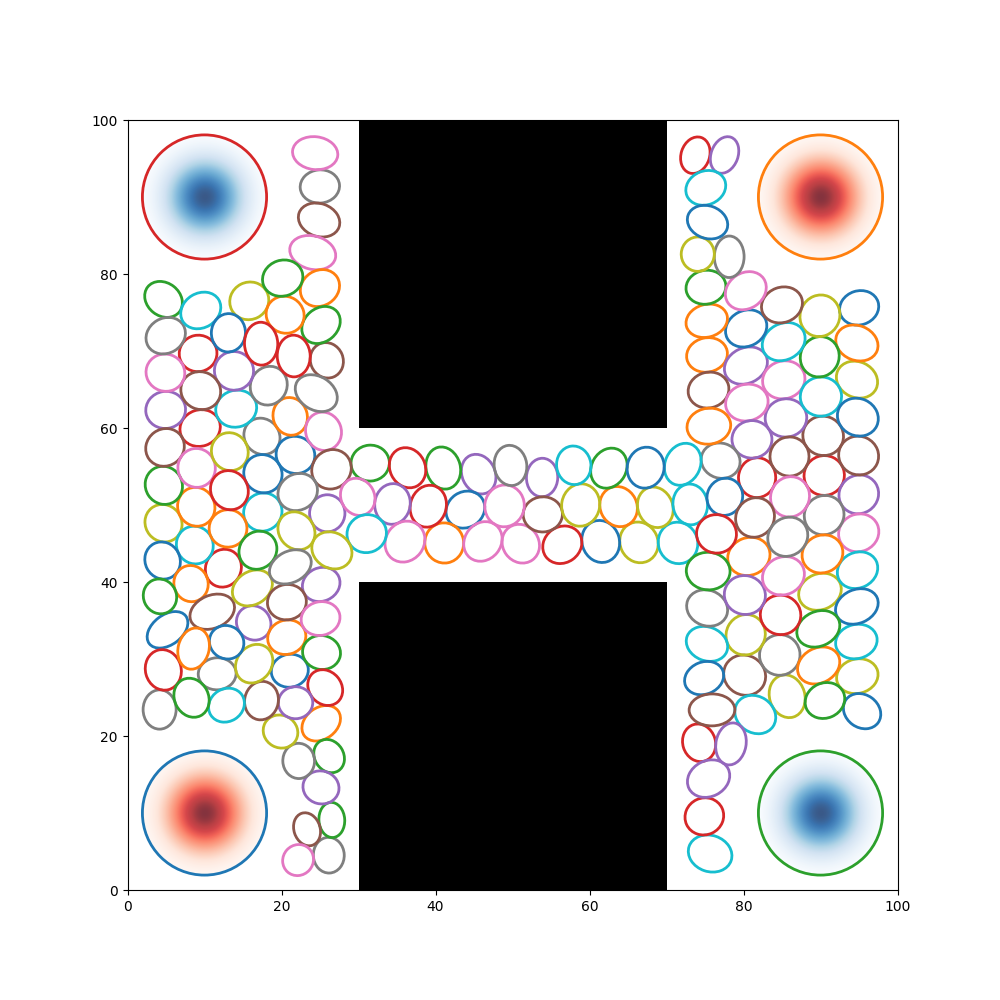
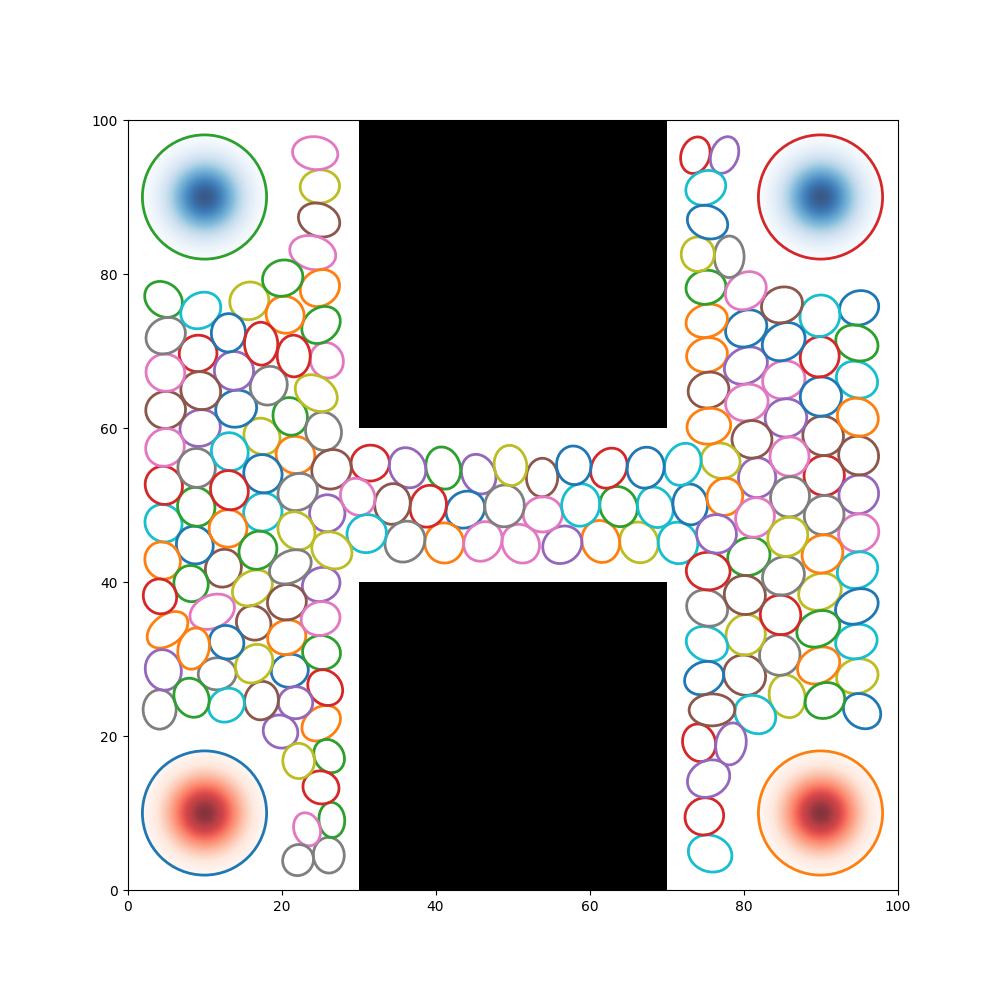
corrected multi-swarm implementation

diff --git a/src/swarm_prm/solvers/macro/teg/teg.py b/src/swarm_prm/solvers/macro/teg/teg.py
@@ -22,7 +22,7 @@ class TEG:
                  num_agents, starts_agent_count, goals_agent_count, 
                  flow_dicts=[], 
                  capacity_dicts = [],
-                 timestep=0,
+                 max_timestep=0,
                  time_limit=100) -> None:
 
         # Problem instance
@@ -35,7 +35,7 @@ class TEG:
         # Flow constraints
         self.flow_dicts = flow_dicts # existing flow on graph
         self.capacity_dicts = capacity_dicts
-        self.timestep = timestep   # current solution time
+        self.max_timestep = max_timestep   # current solution time
 
         # Search Constraints
         self.time_limit = time_limit 
@@ -119,13 +119,13 @@ class TEG:
                     if (u != v):
                         edge_exists = False
                         for flow_dict in self.flow_dicts:
-                            if (u, t+1) in flow_dict[(v, t)]: # type: ignore
+                            if (v, t) in flow_dict and (u, t+1) in flow_dict[(v, t)]:
                                 # print("edge_exist!") # TESTT
                                 edge_exists = True
                                 break
                         if not edge_exists:
                             teg[(u, t, OUT_NODE)][(v, t+1, IN_NODE)] = float("inf")
-                    else:
+                    else: # wait edges
                         teg[(u, t, OUT_NODE)][(v, t+1, IN_NODE)] = float("inf")
 
         return super_source, super_sink, teg 
@@ -188,7 +188,7 @@ class TEG:
             Find earliest timestep such that the graph reaches target flow
         """
         # start from minimum path lengh between start and goal
-        timestep = self.get_min_timestep()
+        timestep = max(self.get_min_timestep(), self.max_timestep)
         max_flow = 0
 
         super_source, super_sink, teg = self.build_teg(timestep)

diff --git a/src/swarm_prm/solvers/macro/teg_node_constraint/teg.py b/src/swarm_prm/solvers/macro/teg_node_constraint/teg.py
@@ -22,7 +22,7 @@ class TEG_Node_Constraint:
                  num_agents, starts_agent_count, goals_agent_count, 
                  flow_dicts=[], 
                  capacity_dicts = [],
-                 timestep=0,
+                 max_timestep=0,
                  time_limit=100) -> None:
 
         # Problem instance
@@ -35,7 +35,7 @@ class TEG_Node_Constraint:
         # Flow constraints
         self.flow_dicts = flow_dicts # existing flow on graph
         self.capacity_dicts = capacity_dicts
-        self.timestep = timestep   # current solution time
+        self.max_timestep = max_timestep   # current solution time
 
         # Search Constraints
         self.time_limit = time_limit 
@@ -111,7 +111,9 @@ class TEG_Node_Constraint:
                 # Edge for capacity constraints. We have capacities occupied by previous agents. Capacity Constraint
                 teg[(u, t+1, IN_NODE)][(u, t+1, OUT_NODE)] = self.node_capacity[u]  
                 for capacity_dict in self.capacity_dicts:
-                    teg[(u, t+1, IN_NODE)][(u, t+1, OUT_NODE)] -= capacity_dict[u, t+1]
+                    if (u, t+1) in capacity_dict:
+                        teg[(u, t+1, IN_NODE)][(u, t+1, OUT_NODE)] = 0
+                        break
 
                 # Edge between states
                 for v in self.roadmap_graph[u]:
@@ -188,7 +190,7 @@ class TEG_Node_Constraint:
             Find earliest timestep such that the graph reaches target flow
         """
         # start from minimum path lengh between start and goal
-        timestep = self.get_min_timestep()
+        timestep = max(self.get_min_timestep(), self.max_timestep)
         max_flow = 0
 
         super_source, super_sink, teg = self.build_teg(timestep)

diff --git a/scripts/map_generation.py b/scripts/map_generation.py
@@ -41,7 +41,7 @@ maps = {
                                 Obstacle(None, "POLYGON", [(30, 100), (30, 60), (70, 60), (70, 100)])
                             ], 
                 "starts" : np.array([[10, 10], [90, 10]]), 
-                "goals" : np.array([[90, 90], [10, 90]])             
+                "goals" : np.array([[10, 90], [90, 90]])
                 },
         "obstacle":{
                 "roadmap" : Roadmap(200, 160), 

diff --git a/src/swarm_prm/solvers/macro/teg/README.md b/src/swarm_prm/solvers/macro/teg/README.md
@@ -1,4 +1,4 @@
 # Time Expanded Graph
 
 This is the base implementation of Time Expanded Graph. When used for multi-swarm planning, current swarm can use a node used by previous
-swarm if the capacity of a node is not exhausted.
+swarm if the capacity of a node's capacity is not exhausted.
